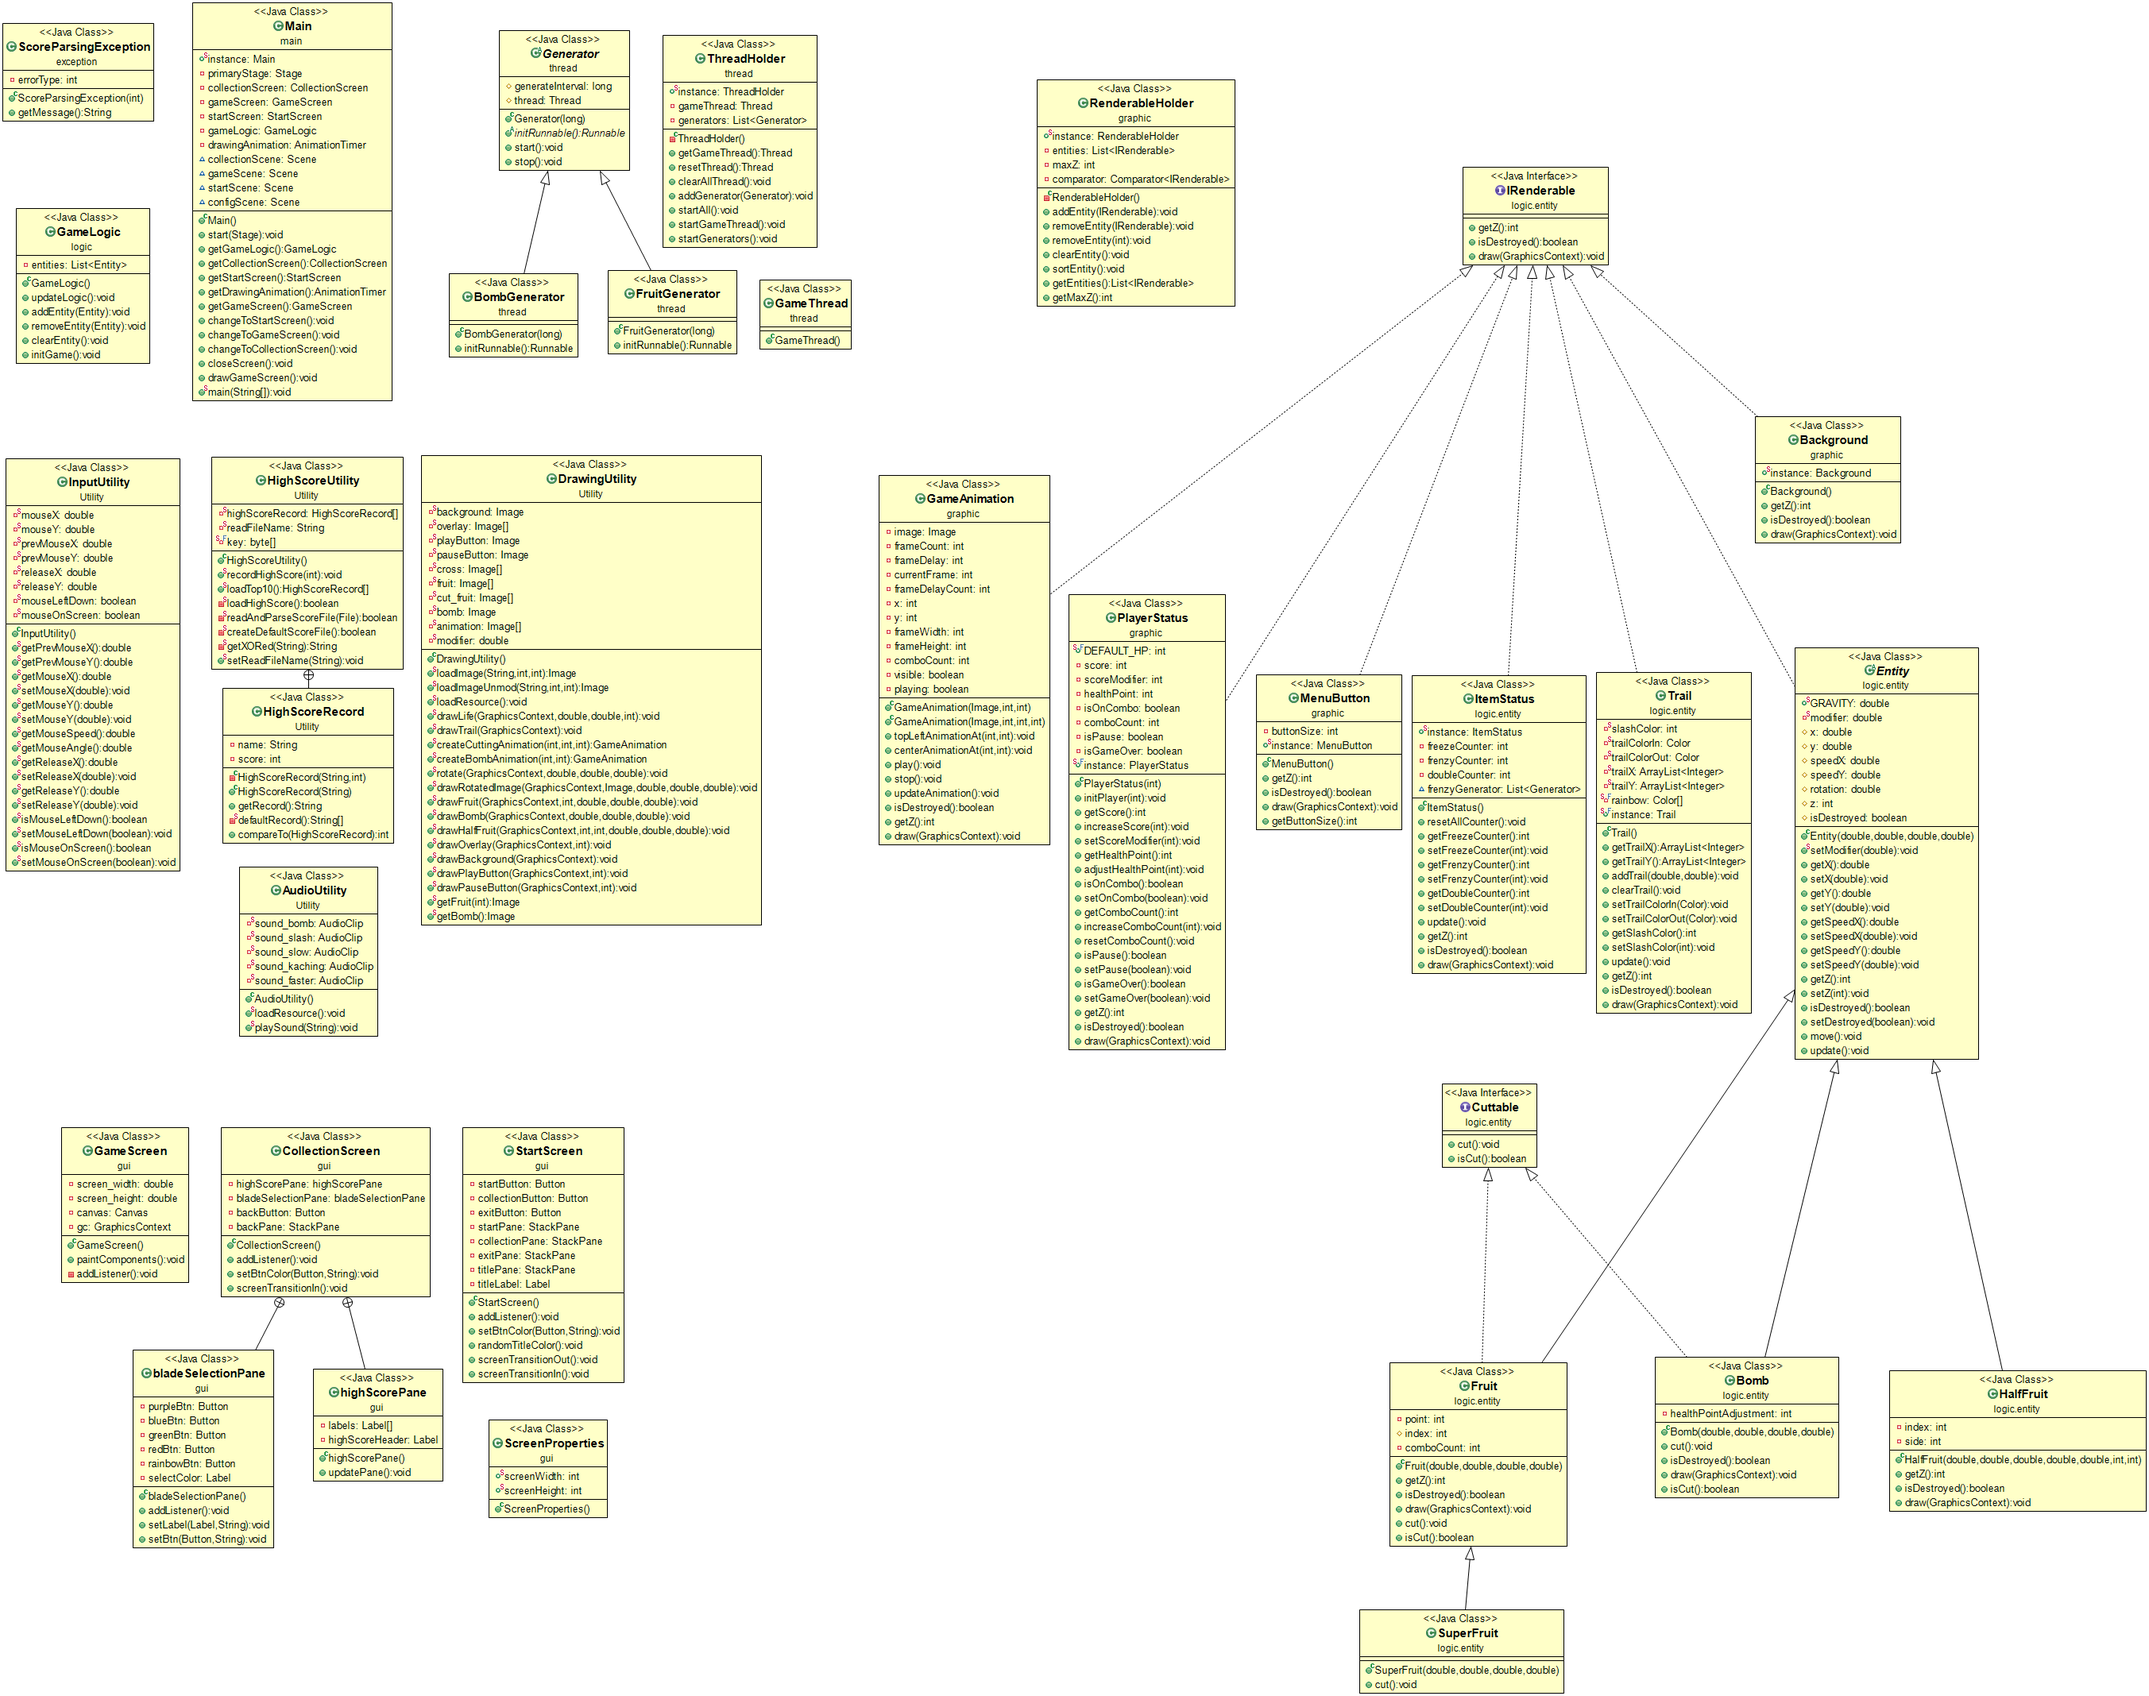
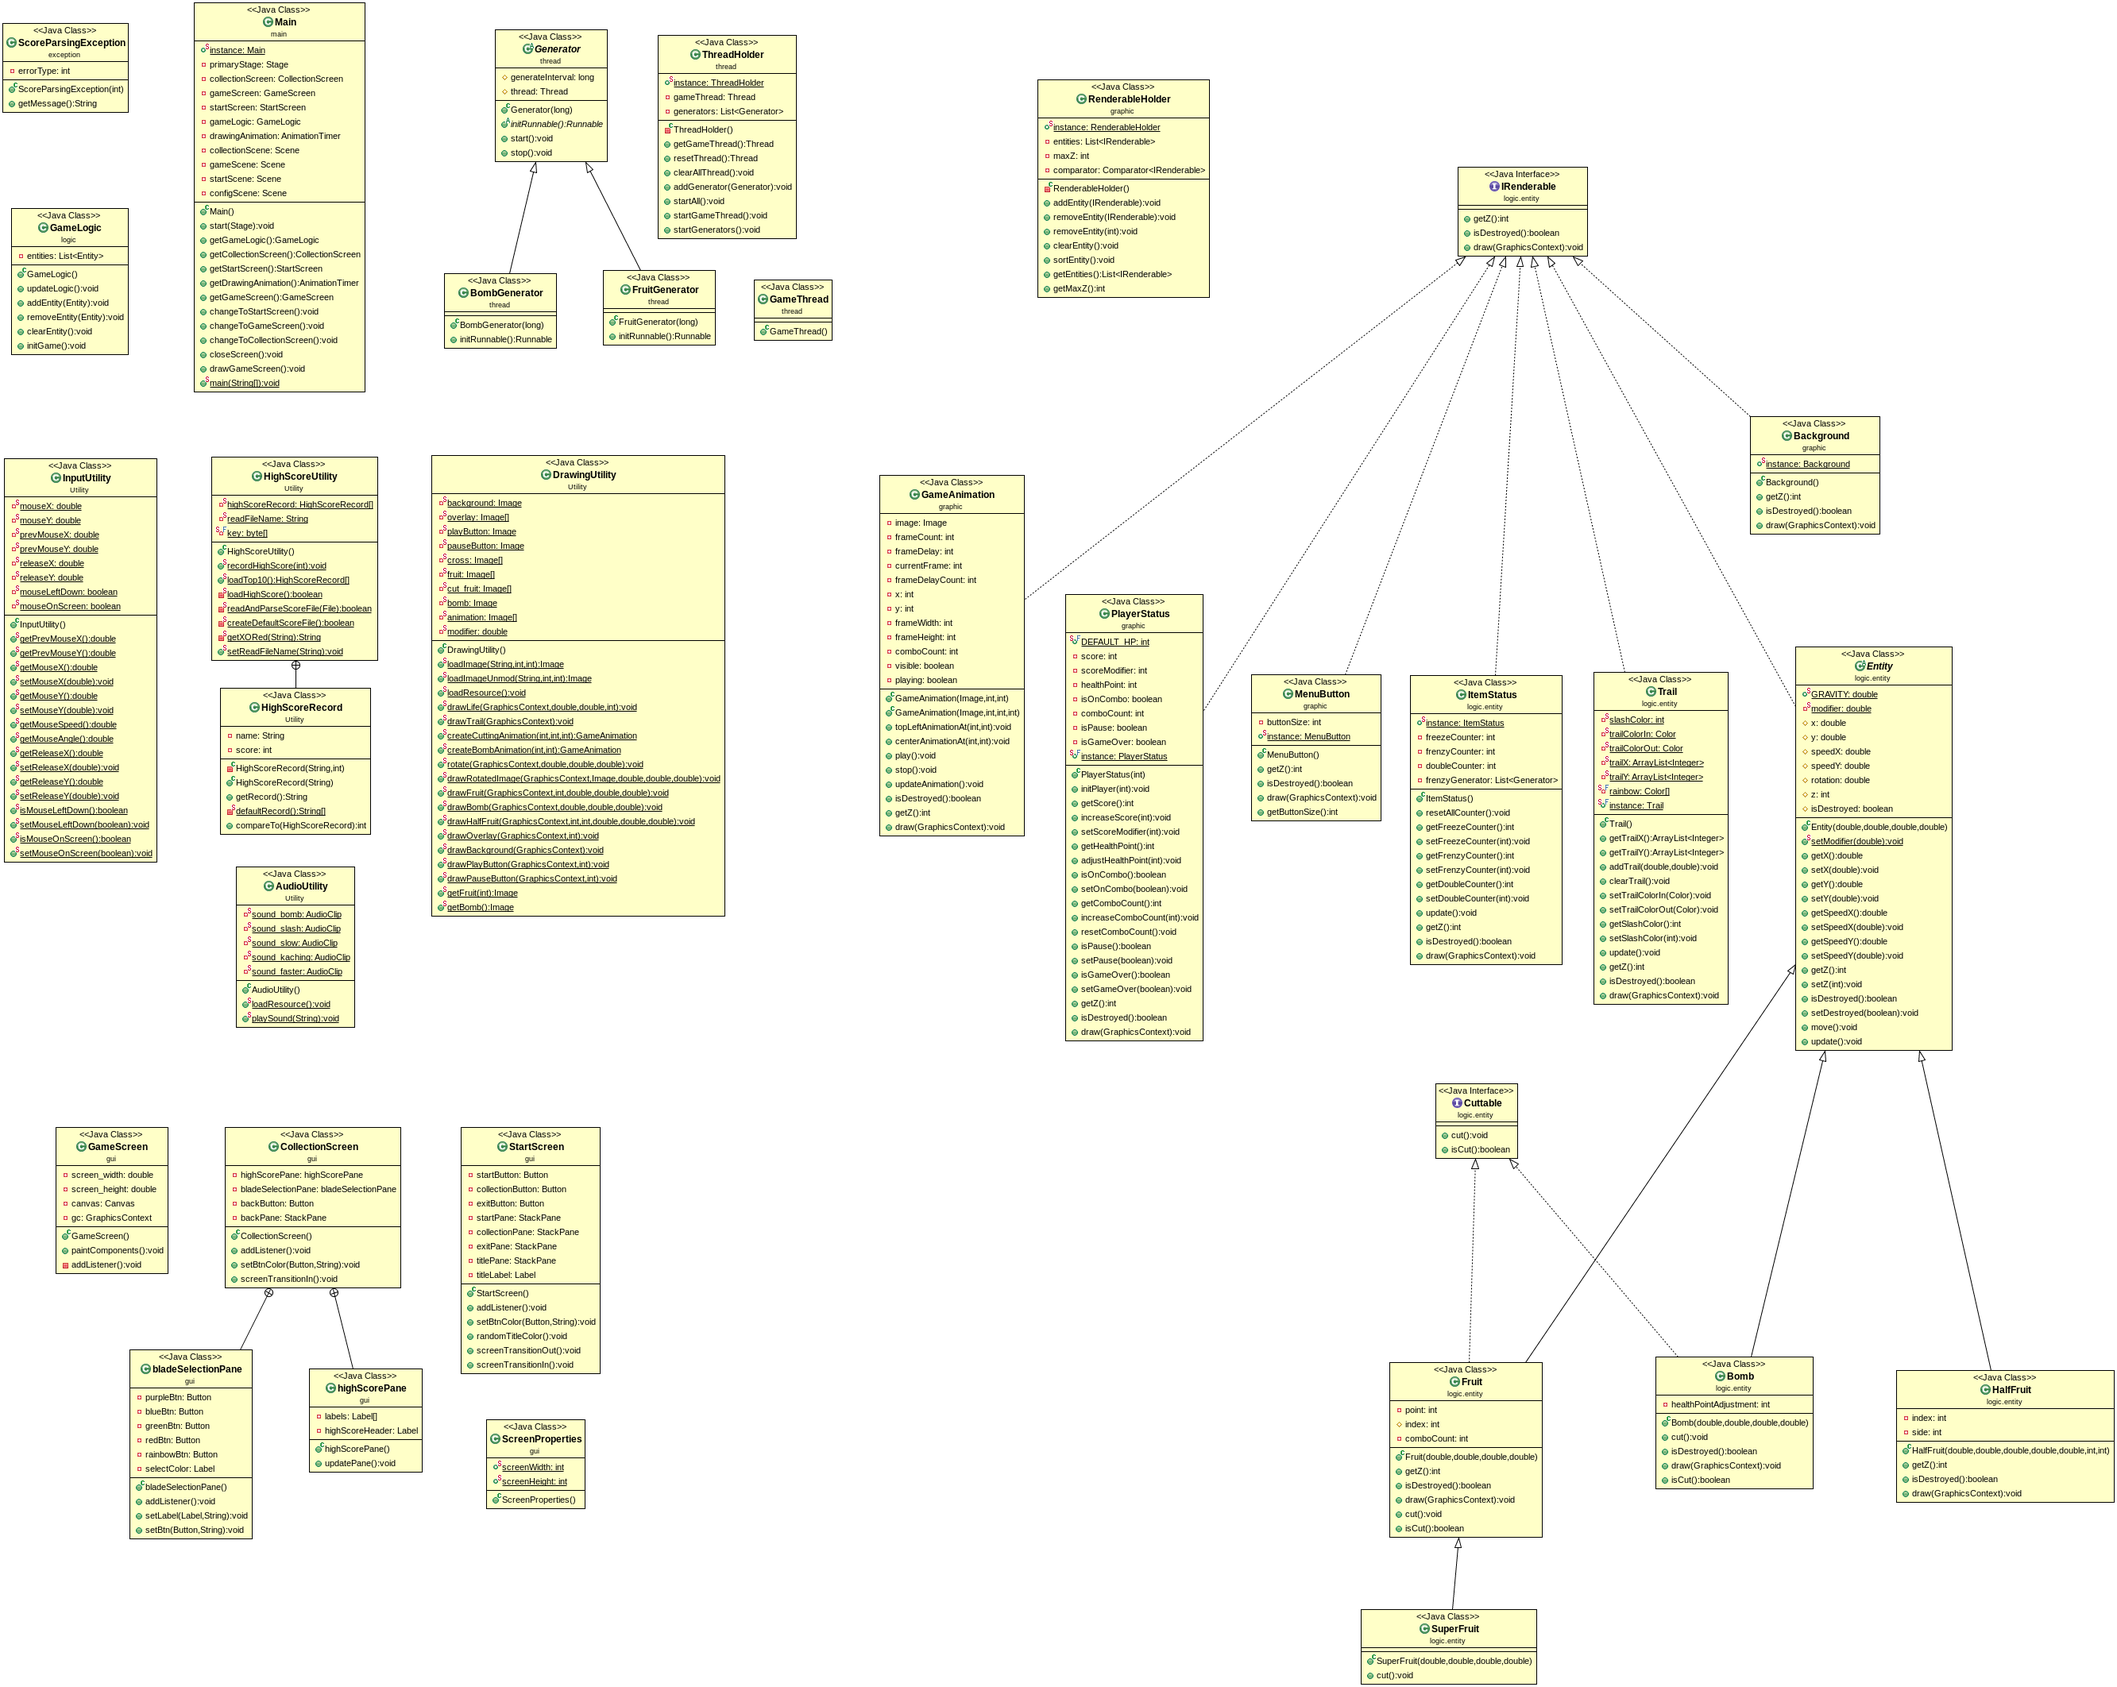
fix uml png and modifier

diff --git a/src/logic/entity/ItemStatus.java b/src/logic/entity/ItemStatus.java
@@ -13,7 +13,7 @@ public class ItemStatus implements IRenderable {
 
 	public static ItemStatus instance = new ItemStatus();
 	private int freezeCounter, frenzyCounter, doubleCounter;
-	List<Generator> frenzyGenerator;
+	private List<Generator> frenzyGenerator;
 
 	public ItemStatus() {
 		freezeCounter = 0;
